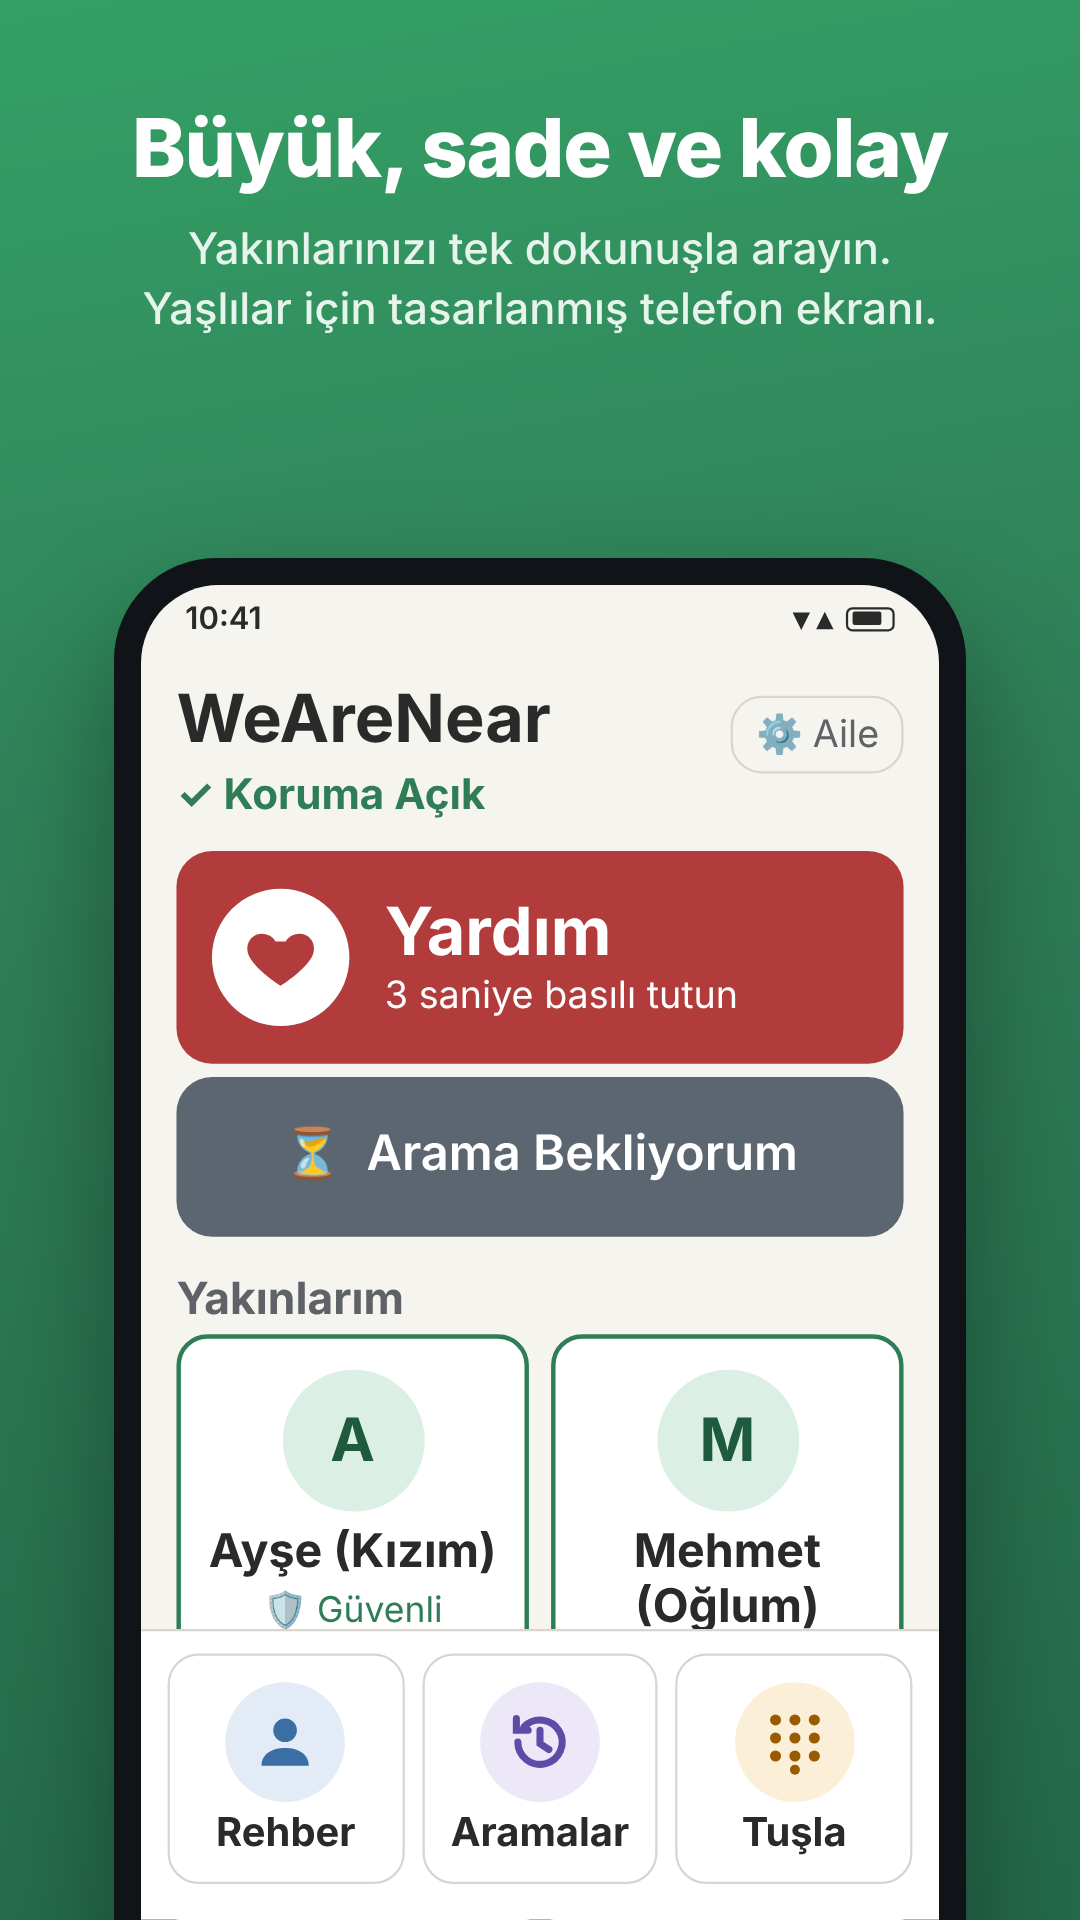
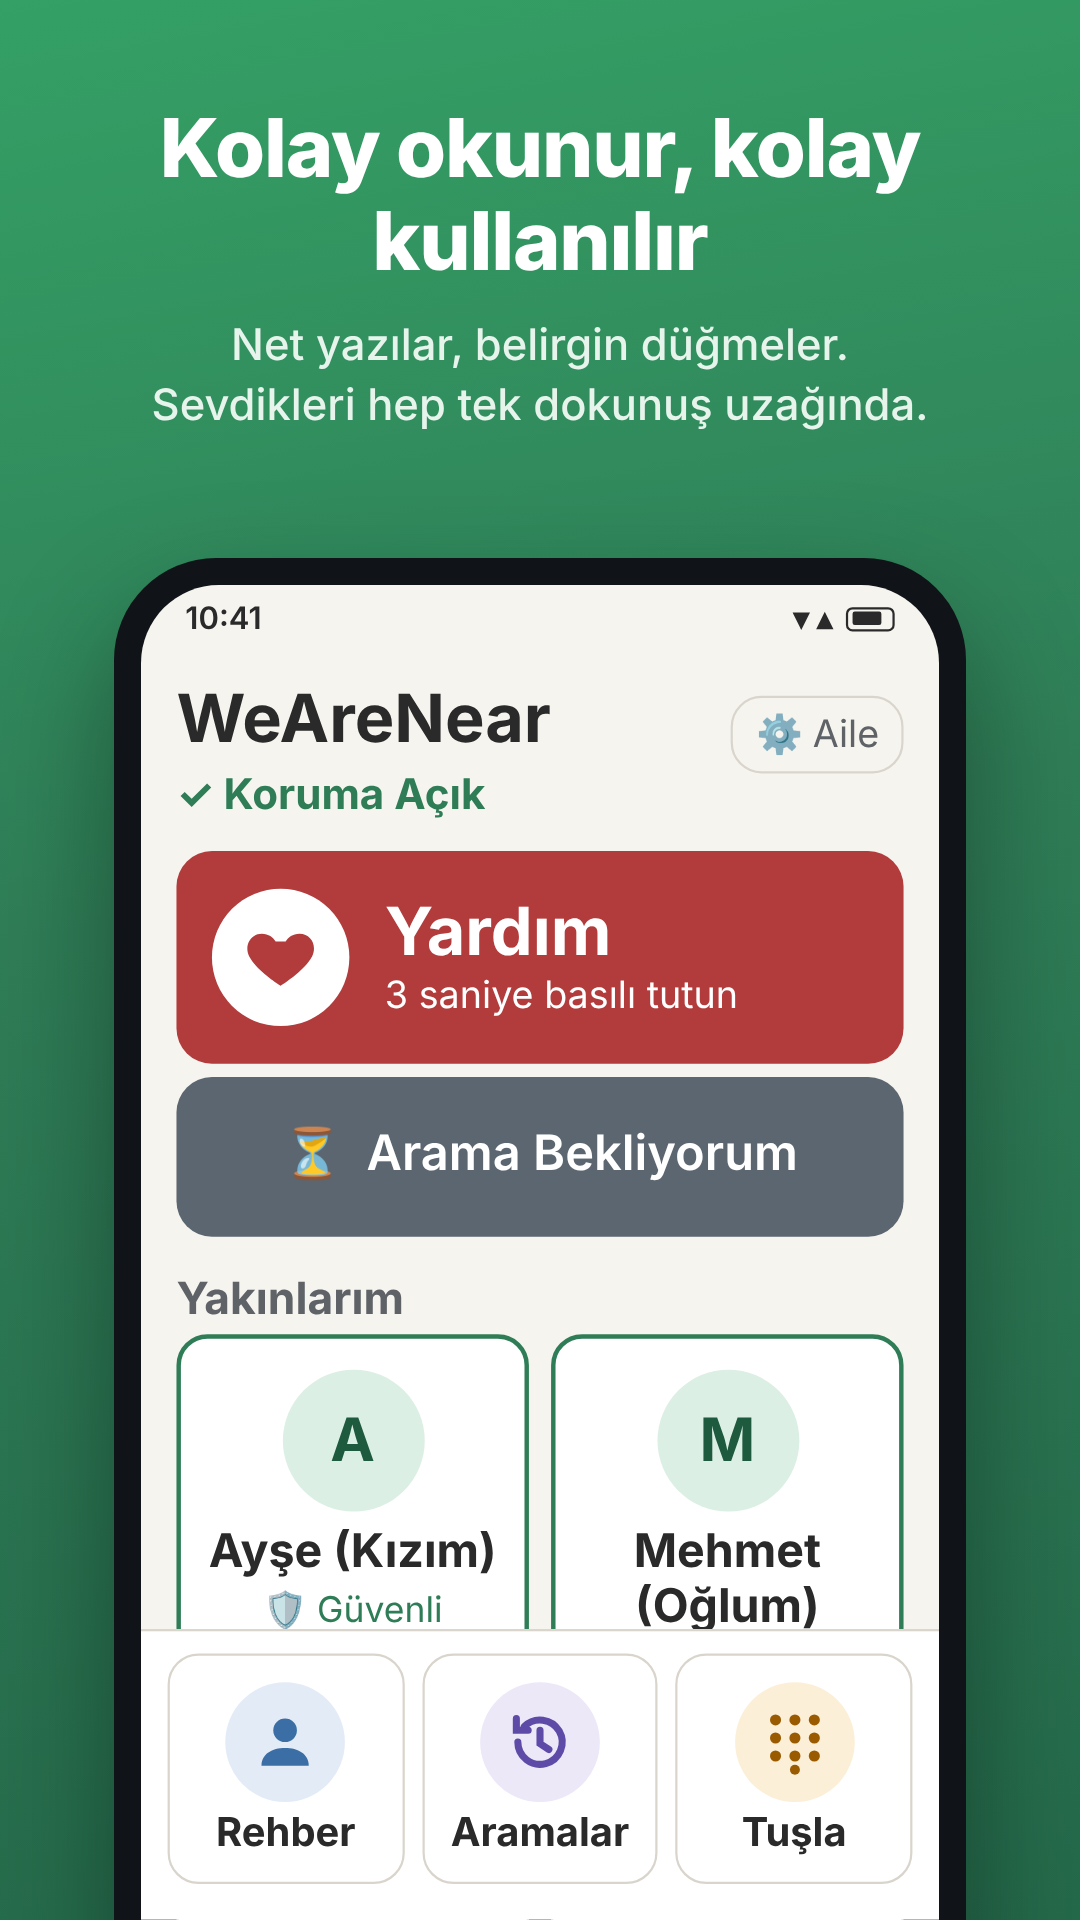
Mağaza metni (TR) yumuşatıldı, 1. görsel başlığı güncellendi
Claude-Session: https://claude.ai/code/session_01KjC5ELx3Fq1ALdJeCGRpyj

Changed region(s): [[0.1222, 0.0625, 0.8861, 0.2188]]

diff --git a/tools/store_shots.html b/tools/store_shots.html
@@ -87,8 +87,8 @@ body{background:#888;font-family:Inter,"Noto Color Emoji",sans-serif}
 
 <!-- ===== 1: Ana ekran ===== -->
 <div class="shot" id="s1">
-  <div class="cap"><h1>Büyük, sade ve kolay</h1>
-    <p>Yakınlarınızı tek dokunuşla arayın.<br>Yaşlılar için tasarlanmış telefon ekranı.</p></div>
+  <div class="cap"><h1>Kolay okunur, kolay kullanılır</h1>
+    <p>Net yazılar, belirgin düğmeler.<br>Sevdikleri hep tek dokunuş uzağında.</p></div>
   <div class="phone"><div class="screen"><div class="ui main">
     <div class="status"><span>10:41</span><span class="ic">▾ ▴ <i class="bat"></i></span></div>
     <div class="hdr"><div><h2>WeAreNear</h2><div class="ok">✓ Koruma Açık</div></div><div class="fam">⚙ Aile</div></div>
